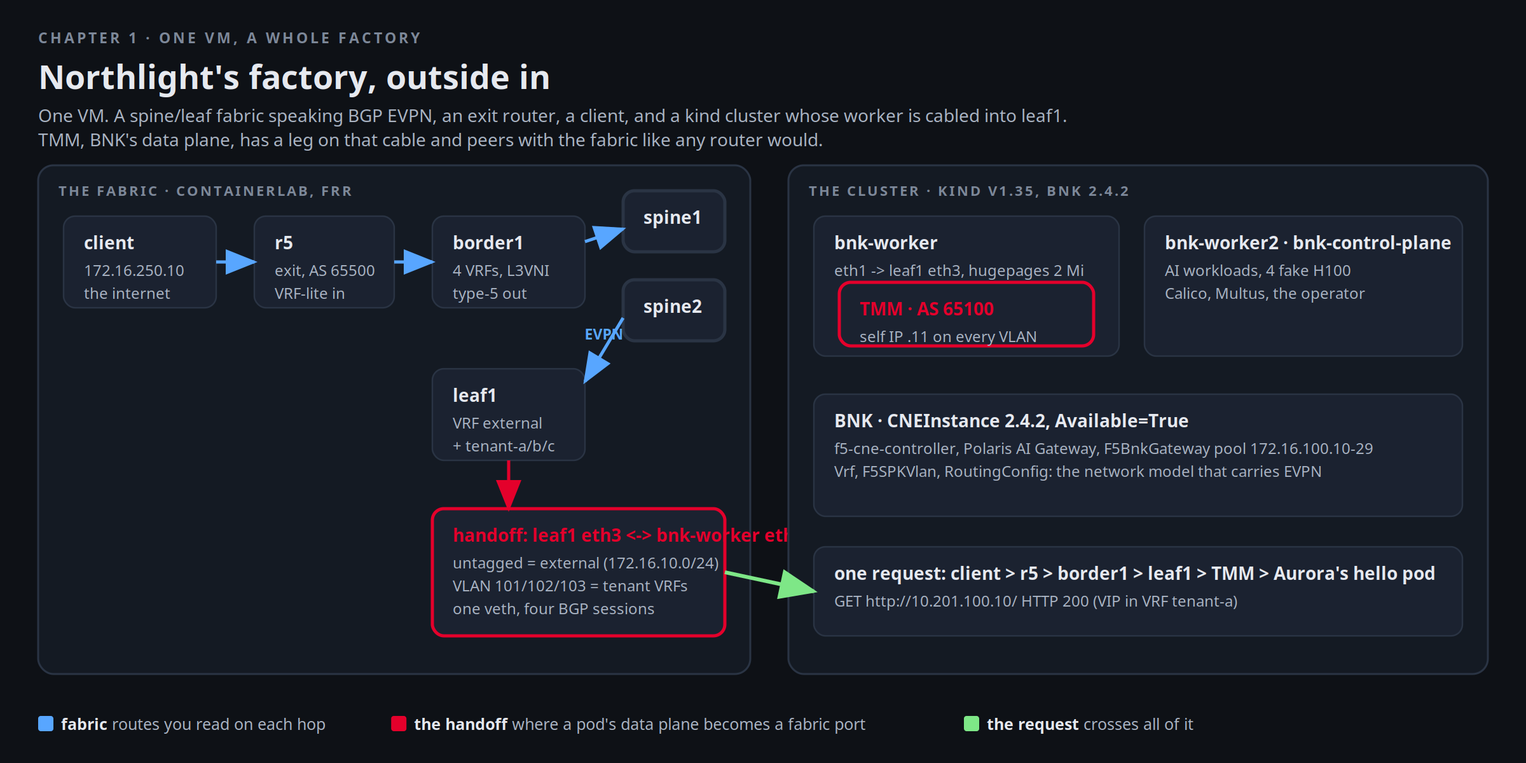
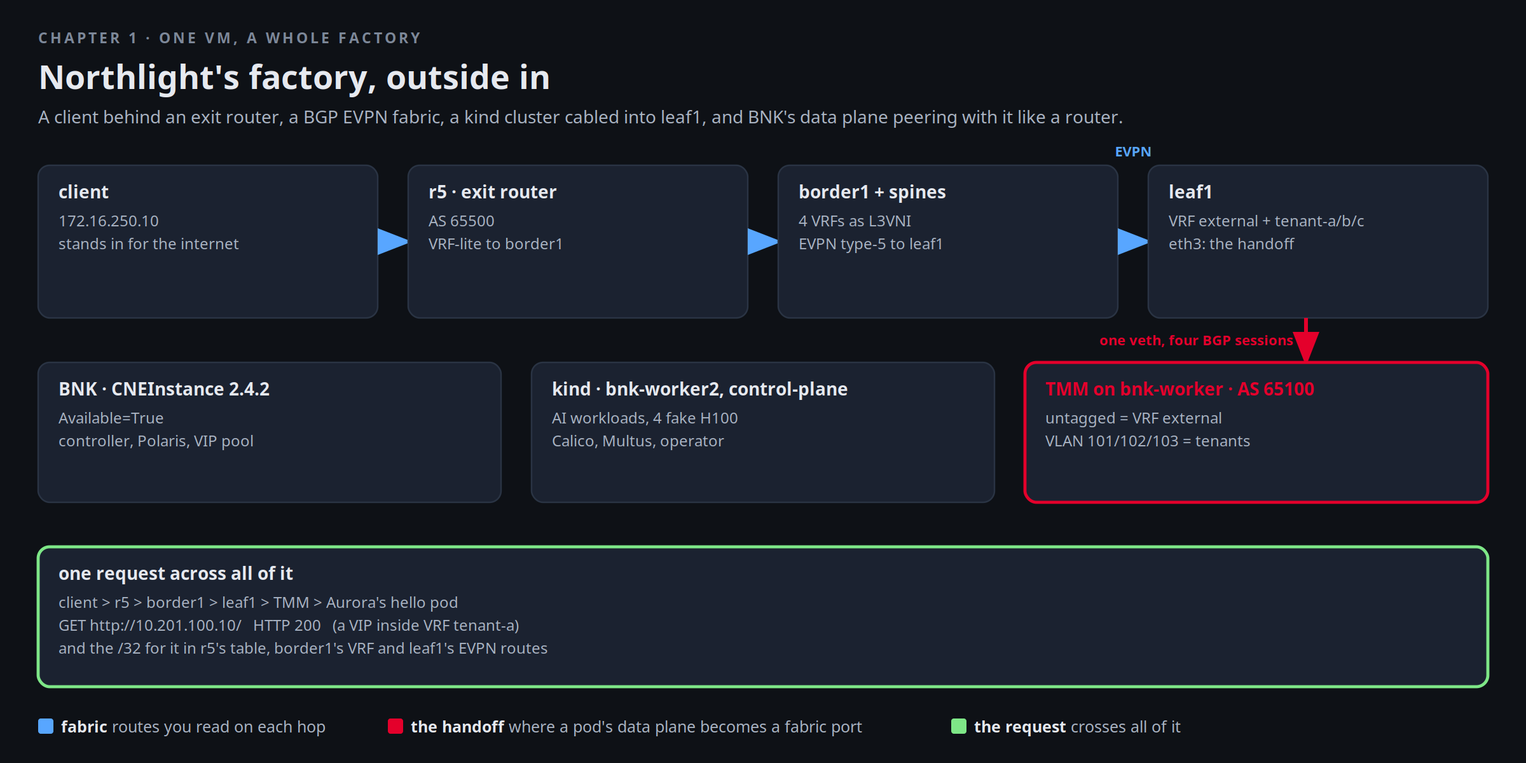
setup-factory: force the lab checkout, authenticate the fetch, assert install/ exists
A play failed with 'install/00-host-prep.sh: No such file or directory' right after the repository step,
which had fetched quietly into a pre-existing /root/lab without checking the working tree. The step now
fetches with the token, checks out FETCH_HEAD with -f, prints the commit and file count, and fails with a
listing if the install directory is still missing. Scene cards for all fourteen chapters are rendered by
assets/scenes.py on a measured grid.

Changed region(s): [[0.0, 0.1233, 1.0, 0.9867], [0.0312, 0.4933, 0.1875, 0.5858], [0.125, 0.2467, 0.2188, 0.2775]]

diff --git a/instruqt/bnk-ai-factory-clab/assets/scenes.py b/instruqt/bnk-ai-factory-clab/assets/scenes.py
@@ -1,7 +1,10 @@
 #!/usr/bin/env python3
-# Scene cards in the style of the bnk-ai-gateway track: dark background, a kicker, a title, one sentence of
-# subtitle, dark panels with the one that matters outlined in F5 red, labelled arrows, a legend. One PNG per
-# chapter (SVG drawn here, rendered with cairosvg), 1200 x 600.
+# Scene cards for the chapters, in the style of the bnk-ai-gateway track: dark background, a kicker, a title,
+# one line of subtitle, rows of dark cards with the one that matters outlined in F5 red, arrows between
+# neighbours, a legend. 1200 x 600, rendered at 2x with cairosvg.
+#
+# Layout is a grid: row(y, h, cards) spreads the cards evenly across the width. Every card is measured against
+# its text and the script refuses to render a card whose title or lines would not fit, so nothing overlaps.
 # Re-run: python3 instruqt/bnk-ai-factory-clab/assets/scenes.py
 import os
 import cairosvg
@@ -9,10 +12,13 @@ import cairosvg
 HERE = os.path.dirname(os.path.abspath(__file__))
 BG, PANEL, CARD, LINE = "#0e1116", "#141a23", "#1b2230", "#2a3444"
 TXT, SUB, DIM = "#e6e9ef", "#aab4c3", "#7d8899"
-RED, BLUE, GREEN, ORANGE, PURPLE = "#e4002b", "#58a6ff", "#7ee787", "#f0a040", "#c792ea"
+RED, BLUE, GREEN, ORANGE, PURPLE, YELLOW, PINK = "#e4002b", "#58a6ff", "#7ee787", "#f0a040", "#c792ea", "#ffd166", "#ff5c7a"
 SANS = "Inter, 'Segoe UI', Helvetica, Arial, sans-serif"
 MONO = "'JetBrains Mono', Consolas, Menlo, monospace"
 W, H = 1200, 600
+M = 30                       # page margin
+PAD = 16                     # card padding
+MONO_W, SANS_W = 7.4, 8.6    # px per char at 12 px mono and 14 px bold sans, measured generously
 
 
 def esc(t): return str(t).replace("&", "&amp;").replace("<", "&lt;").replace(">", "&gt;")
@@ -21,69 +27,319 @@ def esc(t): return str(t).replace("&", "&amp;").replace("<", "&lt;").replace(">"
 class Scene:
     def __init__(self, kicker, title, sub):
         self.o = [f'<rect width="{W}" height="{H}" fill="{BG}"/>']
-        self.t(30, 34, kicker.upper(), 11.5, DIM, 600, mono=True, spacing=2)
-        self.t(30, 70, title, 26, TXT, 700)
-        for i, line in enumerate(sub if isinstance(sub, list) else [sub]):
-            self.t(30, 96 + i * 19, line, 14, SUB)
+        self.t(M, 34, kicker.upper(), 11.5, DIM, 600, mono=True, spacing=2)
+        self.t(M, 70, title, 26, TXT, 700)
+        assert len(sub) * 7.6 <= W - 2 * M, f"subtitle too long: {sub}"
+        self.t(M, 97, sub, 14, SUB)
 
     def t(self, x, y, s, size, color, weight=400, anchor="start", mono=False, spacing=0):
         f = MONO if mono else SANS
         sp = f' letter-spacing="{spacing}"' if spacing else ""
         self.o.append(f'<text x="{x}" y="{y}" font-size="{size}" font-weight="{weight}" fill="{color}" text-anchor="{anchor}" font-family="{f}"{sp}>{esc(s)}</text>')
 
-    def panel(self, x, y, w, h, label):
-        self.o.append(f'<rect x="{x}" y="{y}" width="{w}" height="{h}" rx="12" fill="{PANEL}" stroke="{LINE}" stroke-width="1.5"/>')
-        self.t(x + 16, y + 24, label.upper(), 11, DIM, 600, mono=True, spacing=1.5)
-
-    def card(self, x, y, w, h, title, lines=(), hot=False, color=None, title_color=None):
+    def card(self, x, y, w, h, title, lines=(), hot=False, color=None, dash=False):
+        need_w = max([len(title) * SANS_W] + [len(l) * MONO_W for l in lines]) + 2 * PAD
+        need_h = 36 + 18 * len(lines) + 6
+        assert need_w <= w, f"card '{title}' needs {need_w:.0f}px, has {w}px"
+        assert need_h <= h, f"card '{title}' needs {need_h}px high, has {h}px"
         stroke = color or (RED if hot else LINE)
-        self.o.append(f'<rect x="{x}" y="{y}" width="{w}" height="{h}" rx="9" fill="{CARD}" stroke="{stroke}" stroke-width="{2.5 if (hot or color) else 1.2}"/>')
-        self.t(x + 16, y + 26, title, 14, title_color or (RED if hot else TXT), 700)
+        d = ' stroke-dasharray="6 4"' if dash else ""
+        self.o.append(f'<rect x="{x}" y="{y}" width="{w}" height="{h}" rx="9" fill="{CARD}" stroke="{stroke}" stroke-width="{2.4 if (hot or color) else 1.2}"{d}/>')
+        self.t(x + PAD, y + 26, title, 14, RED if hot else TXT, 700)
         for i, l in enumerate(lines):
-            self.t(x + 16, y + 47 + i * 18, l, 12, SUB, mono=True)
+            self.t(x + PAD, y + 48 + i * 18, l, 12, SUB, mono=True)
+
+    def row(self, y, h, cards, gap=24, x0=M, x1=W - M, arrows=None):
+        """cards: list of (title, lines, opts); spreads them over [x0, x1]. arrows: list per gap of
+        (color, label) or None. Returns the x centres."""
+        n = len(cards)
+        w = (x1 - x0 - gap * (n - 1)) / n
+        centres = []
+        for i, (title, lines, opts) in enumerate(cards):
+            x = x0 + i * (w + gap)
+            self.card(x, y, w, h, title, lines, **opts)
+            centres.append(x + w / 2)
+            if arrows and i < n - 1 and arrows[i]:
+                col, lab = arrows[i]
+                self.arrow(x + w, y + h / 2, x + w + gap, y + h / 2, col, w=3)
+                if lab:   # above the row, centred on the gap, where it cannot touch a card
+                    self.t(x + w + gap / 2, y - 7, lab, 11, col, 600, "middle", mono=True)
+        return centres
 
     def arrow(self, x1, y1, x2, y2, color=BLUE, label="", dash=False, w=2.5):
         d = ' stroke-dasharray="6 5"' if dash else ""
-        mid = f'a{abs(hash((x1, y1, x2, y2))) % 100000}'
-        self.o.append(f'<defs><marker id="{mid}" markerWidth="10" markerHeight="8" refX="9" refY="4" orient="auto" markerUnits="strokeWidth"><path d="M0,0 L10,4 L0,8 z" fill="{color}"/></marker></defs>')
+        mid = f'a{abs(hash((x1, y1, x2, y2, color))) % 1000000}'
+        self.o.append(f'<defs><marker id="{mid}" markerWidth="9" markerHeight="7" refX="8" refY="3.5" orient="auto" markerUnits="strokeWidth"><path d="M0,0 L9,3.5 L0,7 z" fill="{color}"/></marker></defs>')
         self.o.append(f'<line x1="{x1}" y1="{y1}" x2="{x2}" y2="{y2}" stroke="{color}" stroke-width="{w}"{d} marker-end="url(#{mid})"/>')
         if label:
-            self.t((x1 + x2) / 2, (y1 + y2) / 2 - 8, label, 11.5, color, 600, "middle", mono=True)
+            self.t((x1 + x2) / 2, min(y1, y2) - 10, label, 11, color, 600, "middle", mono=True)
 
-    def legend(self, items, y=H - 26):
-        x = 30
+    def down(self, x, y1, y2, color=BLUE, label=""):
+        self.arrow(x, y1, x, y2, color, w=3)
+        if label:   # beside the arrow, on the side with room
+            if x > W / 2: self.t(x - 10, (y1 + y2) / 2 + 4, label, 11, color, 600, "end", mono=True)
+            else: self.t(x + 10, (y1 + y2) / 2 + 4, label, 11, color, 600, mono=True)
+
+    def strip(self, y, h, title, lines=(), **opts):
+        self.card(M, y, W - 2 * M, h, title, lines, **opts)
+
+    def legend(self, items, y=H - 24):
+        x = M
         for color, bold, rest in items:
             self.o.append(f'<rect x="{x}" y="{y - 11}" width="12" height="12" rx="2" fill="{color}"/>')
             self.o.append(f'<text x="{x + 18}" y="{y}" font-size="12.5" fill="{SUB}" font-family="{SANS}"><tspan fill="{TXT}" font-weight="700">{esc(bold)}</tspan> {esc(rest)}</text>')
-            x += 40 + 7.2 * (len(bold) + len(rest))
+            x += 44 + 7.0 * (len(bold) + len(rest))
+        assert x <= W, "legend too long"
 
     def save(self, name):
-        svg = f'<svg xmlns="http://www.w3.org/2000/svg" width="{W}" height="{H}" viewBox="0 0 {W} {H}">' + "".join(self.o) + "</svg>"
+        svg = f'<svg xmlns="http://www.w3.org/2000/svg" xml:space="preserve" width="{W}" height="{H}" viewBox="0 0 {W} {H}">' + "".join(self.o) + "</svg>"
         cairosvg.svg2png(bytestring=svg.encode(), write_to=os.path.join(HERE, name), output_width=W * 2, output_height=H * 2)
 
 
+# Rows: A at y=130 (h 120), B at y=285 (h 110), C strip at y=430 (h 110), legend at 576.
+A, AH, B, BH, C, CH = 130, 120, 285, 110, 430, 110
+
+
 def c01():
-    s = Scene("Chapter 1 · One VM, a whole factory", "Northlight's factory, outside in", ["One VM. A spine/leaf fabric speaking BGP EVPN, an exit router, a client, and a kind cluster whose worker is cabled into leaf1.", "TMM, BNK's data plane, has a leg on that cable and peers with the fabric like any router would."])
-    s.panel(30, 130, 560, 400, "the fabric · containerlab, FRR")
-    s.card(50, 170, 120, 72, "client", ["172.16.250.10", "the internet"])
-    s.card(200, 170, 110, 72, "r5", ["exit, AS 65500", "VRF-lite in"])
-    s.card(340, 170, 120, 72, "border1", ["4 VRFs, L3VNI", "type-5 out"])
-    s.card(490, 150, 80, 48, "spine1", [], color=LINE); s.card(490, 220, 80, 48, "spine2", [], color=LINE)
-    s.card(340, 290, 120, 72, "leaf1", ["VRF external", "+ tenant-a/b/c"])
-    s.card(340, 400, 230, 100, "handoff: leaf1 eth3 <-> bnk-worker eth1", ["untagged = external (172.16.10.0/24)", "VLAN 101/102/103 = tenant VRFs", "one veth, four BGP sessions"], hot=True)
-    s.arrow(170, 206, 200, 206); s.arrow(310, 206, 340, 206); s.arrow(460, 190, 490, 180); s.arrow(490, 250, 460, 300, label="EVPN")
-    s.arrow(400, 362, 400, 400, RED)
-    s.panel(620, 130, 550, 400, "the cluster · kind v1.35, BNK 2.4.2")
-    s.card(640, 170, 240, 110, "bnk-worker", ["eth1 -> leaf1 eth3, hugepages 2 Mi"])
-    s.card(660, 222, 200, 50, "TMM · AS 65100", ["self IP .11 on every VLAN"], hot=True)
-    s.card(900, 170, 250, 110, "bnk-worker2 · bnk-control-plane", ["AI workloads, 4 fake H100", "Calico, Multus, the operator"])
-    s.card(640, 310, 510, 96, "BNK · CNEInstance 2.4.2, Available=True", ["f5-cne-controller, Polaris AI Gateway, F5BnkGateway pool 172.16.100.10-29", "Vrf, F5SPKVlan, RoutingConfig: the network model that carries EVPN"])
-    s.card(640, 430, 510, 70, "one request: client > r5 > border1 > leaf1 > TMM > Aurora's hello pod", ["GET http://10.201.100.10/   HTTP 200   (VIP in VRF tenant-a)"])
-    s.arrow(570, 450, 640, 465, GREEN, w=3)
+    s = Scene("Chapter 1 · One VM, a whole factory", "Northlight's factory, outside in",
+              "A client behind an exit router, a BGP EVPN fabric, a kind cluster cabled into leaf1, and BNK's data plane peering with it like a router.")
+    s.row(A, AH, [("client", ["172.16.250.10", "stands in for the internet"], {}),
+                  ("r5 · exit router", ["AS 65500", "VRF-lite to border1"], {}),
+                  ("border1 + spines", ["4 VRFs as L3VNI", "EVPN type-5 to leaf1"], {}),
+                  ("leaf1", ["VRF external + tenant-a/b/c", "eth3: the handoff"], {})],
+          arrows=[(BLUE, ""), (BLUE, ""), (BLUE, "EVPN")])
+    s.down(1027, A + AH, B, RED, "one veth, four BGP sessions")
+    s.row(B, BH, [("BNK · CNEInstance 2.4.2", ["Available=True", "controller, Polaris, VIP pool"], {}),
+                  ("kind · bnk-worker2, control-plane", ["AI workloads, 4 fake H100", "Calico, Multus, operator"], {}),
+                  ("TMM on bnk-worker · AS 65100", ["untagged = VRF external", "VLAN 101/102/103 = tenants"], {"hot": True})],
+          arrows=[None, None])
+    s.strip(C, CH, "one request across all of it",
+            ["client > r5 > border1 > leaf1 > TMM > Aurora's hello pod", "GET http://10.201.100.10/   HTTP 200   (a VIP inside VRF tenant-a)", "and the /32 for it in r5's table, border1's VRF and leaf1's EVPN routes"], color=GREEN)
     s.legend([(BLUE, "fabric", "routes you read on each hop"), (RED, "the handoff", "where a pod's data plane becomes a fabric port"), (GREEN, "the request", "crosses all of it")])
     s.save("scene-01.png")
 
 
+def c02():
+    s = Scene("Chapter 2 · Three tenants", "Aurora, Borealis and Cobalt, each on its own rails",
+              "One declaration per tenant becomes a VRF on TMM, a VLAN to leaf1, a VIP pool, a SNAT pool and a Polaris tenant with its own key.")
+    s.row(A, AH, [("Aurora Health · tenant-a", ["VRF tenant-a · VLAN 101", "VIPs 10.201.100.0/24", "Polaris key, route .20"], {"color": GREEN}),
+                  ("Borealis Bank · tenant-b", ["VRF tenant-b · VLAN 102", "VIPs 10.202.100.0/24", "Polaris key, route .21"], {"color": BLUE}),
+                  ("Cobalt Labs · tenant-c", ["VRF tenant-c · VLAN 103", "VIPs 10.203.100.0/24", "Polaris key, route .22"], {"color": ORANGE})])
+    for x, col in ((220, GREEN), (600, BLUE), (980, ORANGE)):
+        s.down(x, A + AH, B, col)
+    s.strip(B, 60, "TMM · one data plane, three route domains · a tenant is a route domain, not a pod", [], hot=True)
+    s.row(C, CH, [("leaf1 · VRF tenant-b", ["from-tmm-tenant-b permits", "VIP pool and SNAT pool only"], {}),
+                        ("border1 -> r5 · VRF-lite", ["eth3.102 <-> r5", "r5 sends a default back"], {}),
+                        ("what you add", ["F5VirtualServer tenant-b-reports", "10.202.100.11 · reachable in ~10 s"], {"color": BLUE})],
+          arrows=[(BLUE, ""), (BLUE, "")])
+    s.legend([(GREEN, "tenant-a", "Aurora Health"), (BLUE, "tenant-b", "Borealis Bank, where you publish today"), (ORANGE, "tenant-c", "Cobalt Labs"), (RED, "TMM", "three route domains")])
+    s.save("scene-02.png")
+
+
+def c03():
+    s = Scene("Chapter 3 · GPUs without GPUs", "Eight H100s this VM does not have",
+              "The fake GPU operator advertises nvidia.com/gpu, KAI schedules tenants against it, and the Dynamo mocker publishes vLLM metrics.")
+    s.row(A, AH, [("bnk-worker · bnk-worker2", ["nvidia.com/gpu: 4 + 4", "product H100, no driver, no card"], {}),
+                  ("KAI queue ai-factory", ["tenant-a quota 4, weight 2", "tenant-b 2 · tenant-c 2 · limit -1"], {"hot": True}),
+                  ("Dynamo mocker x2", ["Qwen3-0.6B tokenizer, no weights", "vllm:num_requests_running"], {"color": ORANGE})])
+    s.down(600, A + AH, B, RED)
+    s.row(B, BH, [("1 · fill it", ["Aurora 4, Borealis 2, Cobalt 2", "all eight in use"], {"color": GREEN}),
+                  ("2 · Cobalt asks for 4 more", ["Pending: over quota,", "nothing idle to borrow"], {"color": YELLOW}),
+                  ("3 · Aurora's job ends", ["Cobalt's job takes the idle 4", "borrowed, reclaimable"], {"color": BLUE})],
+          arrows=[(DIM, ""), (DIM, "")])
+    s.strip(C, CH, "what a pod and Grafana see",
+            ["inside a scheduled pod: NVIDIA_VISIBLE_DEVICES set, nvidia-smi absent, the device is in the environment", "Grafana: vllm:num_requests_running and DCGM_FI_DEV_GPU_UTIL, real counters on simulated hardware"])
+    s.legend([(RED, "the scheduler", "fairness between tenants"), (GREEN, "quota", "guaranteed"), (BLUE, "borrowed", "reclaimable"), (ORANGE, "metrics", "without a GPU")])
+    s.save("scene-03.png")
+
+
+def c04():
+    s = Scene("Chapter 4 · The picker", "TMM asks before it forwards",
+              "The pool VIP's HTTPRoute ends in an InferencePool. For every request TMM asks F5's Endpoint Picker which worker should take it.")
+    s.row(A, AH, [("client", ["POST /v1/chat/completions", "172.16.100.12:8000"], {}),
+                  ("TMM · pool VIP", ["HTTPRoute -> InferencePool", "ext-proc call per request"], {"hot": True}),
+                  ("F5EPP · engine dynamo", ["prefix-cache, prefill-load,", "queue, kv-cache scorers"], {"color": PURPLE}),
+                  ("NATS", ["KV cache events", "prefix -> worker map"], {})],
+          arrows=[(GREEN, "1"), (PURPLE, "2 which one?"), (DIM, "")])
+    s.down(432, A + AH, B, GREEN, "3 to the worker the picker named")
+    s.row(B, BH, [("Dynamo mocker-0", ["KV cache: prefixes it has seen", "vllm:num_requests_running"], {"color": ORANGE}),
+                  ("Dynamo mocker-1", ["KV cache: prefixes it has seen", "vllm:num_requests_running"], {"color": ORANGE})], x1=W / 2 + 80)
+    s.card(W / 2 + 120, B, W - M - W / 2 - 120, BH, "F5EPP spec.mode", ["aggregated: one worker end to end", "disaggregated: prefill + decode", "chapter 14 comes back to this"])
+    s.strip(C, CH, "what you watch",
+            ["the picker's log names a worker per request · the same prompt twice lands on the same worker", "twelve long prompts in flight push the next short one to the other worker · Prometheus shows the load per pod"])
+    s.legend([(GREEN, "request", "through the pool VIP"), (PURPLE, "ext-proc", "TMM's question, the picker's answer"), (ORANGE, "workers", "real KV-cache bookkeeping"), (RED, "TMM", "forwards where it is told")])
+    s.save("scene-04.png")
+
+
+def c05():
+    s = Scene("Chapter 5 · Sessions that stick", "Persistence that reads the protocol",
+              "Aurora's MCP server gets its own Gateway on 172.16.100.23. Three replicas, one session: without help the calls scatter.")
+    s.row(A, AH, [("client", ["initialize -> Mcp-Session-Id", "tools/call x6, same id"], {}),
+                  ("Gateway tenant-mcp · .23", ["HTTPRoute /mcp -> agent:8001", "NetPolicy tenant-mcp-sessions"], {"hot": True}),
+                  ("F5BigPersistenceProfile", ["type MODEL_CONTEXT_PROTOCOL", "Secret mcp-passphrase"], {"color": GREEN}),
+                  ("agent x3", ["before: 6 calls, 2-3 pods", "after: 6 calls, 1 pod"], {"color": GREEN})],
+          arrows=[(GREEN, "session"), (GREEN, "attached"), (GREEN, "sticks")])
+    s.row(B, BH, [("the same for A2A · .14", ["type AGENT2AGENT", "message/send, then tasks/get", "NetPolicy on kagent/agents-gw"], {"color": PURPLE}),
+                  ("the attachment shape", ["NetPolicy: targetRef Gateway + listener", "extensionRefs: BNK extensions", "one per listener, same namespace"], {})])
+    s.strip(C, CH, "what you measure",
+            ["scale deploy/agent to 3 · one initialize, six tools/call with the same id, the pod name from each answer", "uniq -c before the Secret exists and after: TMM read the session id from the protocol, not from a cookie"])
+    s.legend([(GREEN, "MCP", "session id in the protocol"), (PURPLE, "A2A", "the second persistence type"), (RED, "the listener", "where the profile lives")])
+    s.save("scene-05.png")
+
+
+def c06():
+    s = Scene("Chapter 6 · The programmable data path", "Where the CRDs stop, Tcl continues",
+              "An F5BigCneIrule runs inside TMM on the listener's events: it answers /factory/whoami itself and stamps every other request.")
+    s.row(A, AH, [("client", ["GET /factory/whoami", "POST /mcp"], {}),
+                  ("TMM · listener on .23", ["NetPolicy, two extensions:", "persistence profile + iRule"], {"hot": True}),
+                  ("answered in TMM", ["200, JSON from Tcl", "X-Factory-Tenant: tenant-a"], {"color": GREEN}),
+                  ("forwarded to the pod", ["/mcp still gets a session id", "request carries the stamp"], {"color": BLUE})],
+          arrows=[(GREEN, ""), (GREEN, "whoami"), (BLUE, "mcp")])
+    s.row(B, BH, [("change it live", ["sed + kubectl apply", "picked up in ~8 s", "no restart, no gap"], {"color": ORANGE}),
+                  ("the Access CRDs", ["f5-big-access-jwt-configs", "issuer, keys, claims", "no IdP in this VM: read only"], {"color": PURPLE})])
+    s.strip(C, CH, "one listener · one NetPolicy · two extensions",
+            ["the NetPolicy from chapter 5 gains an extensionRef; a listener takes one NetPolicy, a NetPolicy takes several extensions", "identity checks have a home at the traffic layer; the IdP is the only thing missing here"])
+    s.legend([(GREEN, "in TMM", "no pod involved"), (BLUE, "forwarded", "with the stamp"), (ORANGE, "live change", "apply and it is there"), (PURPLE, "identity CRDs", "waiting for an IdP")])
+    s.save("scene-06.png")
+
+
+def c07():
+    s = Scene("Chapter 7 · Agent Substrate", "Agents are not pods",
+              "A scheduler of their own: WorkerPools, golden snapshots, actors forked from them, identities from PodCertificateRequest.")
+    s.row(A, AH, [("ate-system", ["api-server, controller", "atelet on every node"], {}),
+                  ("atenet-router", ["the actor's only network", "-> the tenant's AI route"], {"color": PURPLE}),
+                  ("WorkerPool kagent-default", ["replicas 2", "ateom-gvisor v0.0.9"], {}),
+                  ("identities", ["PodCertificateRequest", "certificates.k8s.io/v1beta1"], {})])
+    s.row(B, BH, [("SandboxAgent concierge", ["Northlight's front desk", "no tools, lab tenant's model", "workerPoolRef kagent-default"], {"hot": True}),
+                  ("ActorTemplate", ["generated by kagent", "Substrate builds the snapshot"], {"color": ORANGE}),
+                  ("actor on a worker", ["forked from the snapshot", "Ready in the agent's status", "listed in the kagent tab"], {"color": GREEN})],
+          arrows=[(ORANGE, "kagent"), (GREEN, "fork")])
+    s.strip(C, CH, "what changes",
+            ["a pod is pulled, started and torn down by the kubelet; an actor is forked from a snapshot that already has the runtime loaded", "kagent owns the agent, Substrate owns the worker and the snapshot; the actor has no cluster network, only the router"])
+    s.legend([(RED, "SandboxAgent", "the one YAML you apply"), (ORANGE, "generated", "template and snapshot"), (GREEN, "actor", "running, no Deployment"), (PURPLE, "router", "the only way out")])
+    s.save("scene-07.png")
+
+
+def c08():
+    s = Scene("Chapter 8 · OpenShell", "A key the agent never had",
+              "The sanctioned assistants run in NVIDIA OpenShell sandboxes. A provider injects the key on the way out, towards one address only.")
+    s.row(A, AH, [("sandbox tenant-a-agent", ["no key in its environment", "policy per binary, per host"], {"hot": True}),
+                  ("provider f5-aigw-tenant-a", ["endpoint 172.16.100.20:80", "credential: Aurora's key"], {}),
+                  ("Aurora route .20", ["HTTP 200", "key present on arrival"], {"color": GREEN}),
+                  ("Borealis route .21", ["DENIED in the kernel", "logged with the binary"], {"color": PINK})],
+          arrows=[(DIM, ""), (GREEN, "allowed"), (PINK, "refused")])
+    s.row(B, BH, [("policy update --wait", ["add 172.16.100.21:80 for curl", "hot-reloaded while it runs", "now: packet out, Polaris 401"], {"color": ORANGE}),
+                  ("policy set --wait", ["put the base policy back", "the refusal returns", "chapter 12 relies on this"], {"color": ORANGE})],
+          arrows=[(ORANGE, "")])
+    s.strip(C, CH, "the key lives in the provider, not in the sandbox",
+            ["a copied key cannot leave because it was never there · two layers give two different refusals: the sandbox's DENIED and Polaris's 401", "openshell logs --source sandbox: every refused connection, with the binary and the destination"])
+    s.legend([(GREEN, "allowed", "one endpoint, key injected"), (PINK, "DENIED", "in the kernel, logged"), (ORANGE, "policy", "changed while it runs"), (RED, "sandbox", "where the assistant lives")])
+    s.save("scene-08.png")
+
+
+def c09():
+    s = Scene("Chapter 9 · Meet the agents", "Four agents, three tenants, one operator",
+              "Each tenant's assistant has its own ModelConfig: its own route, its own key, its own model name. The operator sees the platform.")
+    s.row(A, AH, [("tenant-a/assistant", ["tenant-a-qwen2.5-1.5b", "172.16.100.20 · aigw-key", "tools: Aurora's MCP"], {"color": GREEN}),
+                  ("tenant-b/assistant", ["tenant-b-qwen2.5-1.5b", "172.16.100.21 · aigw-key", "tools: Borealis's MCP"], {"color": BLUE}),
+                  ("tenant-c/assistant", ["tenant-c-qwen2.5-1.5b", "172.16.100.22 · aigw-key", "tools: Cobalt's MCP"], {"color": ORANGE}),
+                  ("kagent/factory-operator", ["kubernetes tools, read-only", "sees pods, not tenant data"], {"color": PURPLE})])
+    s.row(B, BH, [("A2A gateway · 172.16.100.14", ["/api/a2a/tenant-a/assistant/", "AGENT2AGENT persistence"], {"hot": True}),
+                  ("Aurora's app · 172.16.100.16", ["POST /api/ask {question}", "the app calls its assistant"], {}),
+                  ("Polaris · the record", ["tenant-a · tenant-a-app-key", "tokens per call; refusals too"], {"color": GREEN})])
+    s.strip(C, CH, "what you prove",
+            ["an A2A call to Aurora's assistant lists the open clinical records through Aurora's MCP tools · the same through the published app", "Aurora's key on Aurora's route: 200 · Aurora's key on Borealis's route: refused by Polaris, and the model name does not exist there"])
+    s.legend([(GREEN, "tenant-a", "Aurora"), (BLUE, "tenant-b", "Borealis"), (ORANGE, "tenant-c", "Cobalt"), (PURPLE, "operator", "platform, read-only"), (RED, "A2A", "the published front")])
+    s.save("scene-09.png")
+
+
+def c10():
+    s = Scene("Chapter 10 · The agent nobody approved", "Sanctioned parts, no review",
+              "A Cobalt developer deploys billing-reconciler as a plain pod: the sanctioned tools, Aurora's record lookup, and a POST to any URL.")
+    s.row(A, AH, [("billing-reconciler", ["plain pod in tenant-c", "billing_export, lookup_record", "post_report to any URL"], {"color": YELLOW, "dash": True}),
+                  ("TMM · route 172.16.100.22", ["Polaris checks key and model", "reads nothing else"], {"hot": True}),
+                  ("Cobalt's egress", ["VRF tenant-c, VLAN 103", "SNAT 10.203.200.x"], {}),
+                  ("webhook · client :8080", ["outside the factory", "MRNs, names, amounts"], {"color": PINK})],
+          arrows=[(GREEN, "own key: 200"), (PINK, "post_report"), (PINK, "")])
+    s.row(B, BH, [("attempt 1 · Aurora's key, copied", ["Polaris: 401, wrong tenant", "recorded under tenant-c"], {"color": PINK}),
+                  ("attempt 2 · Cobalt's own key", ["every Cobalt developer has it", "the model follows the procedure"], {"color": GREEN}),
+                  ("how it is reached", ["agents gateway publishes only", "the sanctioned three; kagent :8083"], {})])
+    s.strip(C, CH, "where each layer stood",
+            ["identity: necessary, not sufficient · content: nothing read the prompt or the answer · reachability: the pod leaves like any pod of Cobalt's", "leave it running: chapter 11 stops it in TMM, chapter 12 at the exit, chapter 13 writes it up"])
+    s.legend([(YELLOW, "shadow agent", "sanctioned parts"), (PINK, "refused, then leaked", "wrong key, then out the door"), (GREEN, "passed", "with a legitimate key"), (RED, "TMM", "sees the route, not the content")])
+    s.save("scene-10.png")
+
+
+def c11():
+    s = Scene("Chapter 11 · Guardrails in the data path", "A verdict before the model",
+              "One NetPolicy puts the guardrails iRule on Cobalt's AI route. TMM asks the scanner over a sideband and answers flagged requests itself.")
+    s.row(A, AH, [("caller · Cobalt's key", ["a clean question, or", "last night's export"], {"color": YELLOW}),
+                  ("TMM · Gateway tenant-c-ai", ["NetPolicy guardrails-tenant-c", "iRule collects the body"], {"hot": True}),
+                  ("CalypsoAI scanner", ["/backend/v1/scans", "passed | flagged"], {"color": PURPLE}),
+                  ("model", ["sees passed requests only", "flagged never arrives"], {"color": GREEN})],
+          arrows=[(GREEN, ""), (PURPLE, "sideband"), (GREEN, "passed")])
+    s.row(B, BH, [("flagged", ["HTTP 200 answered by TMM", "X-Guardrail: blocked", "reads like a model reply"], {"color": PINK}),
+                  ("the agent, rerun", ["same agent, key and task", "the export it read is flagged", "webhook count unchanged"], {"color": YELLOW}),
+                  ("attach and detach", ["kubectl apply -f 50-attach-tenant-c", "same NetPolicy shape as ch 5 and 6", "kubectl delete -f takes it off"], {})])
+    s.strip(C, CH, "content inspection where the content flows",
+            ["in TMM, on the tenant's route, before the model · the verdict comes from the scanner, the enforcement and the record from the data plane", "chapter 12 is the case the scanner cannot see: a clean prompt"])
+    s.legend([(GREEN, "passed", "to the model"), (PINK, "flagged", "answered in TMM"), (PURPLE, "scanner", "sideband from the iRule"), (YELLOW, "the shadow agent", "stopped without touching it")])
+    s.save("scene-11.png")
+
+
+def c12():
+    s = Scene("Chapter 12 · Nowhere to send it", "A clean prompt and the same webhook",
+              "Reachability is the last layer: the sandbox refuses the webhook by policy, and without its F5SPKEgress the plain pod has no first hop.")
+    s.row(A, AH, [("sandbox tenant-c-agent", ["POST 172.16.250.10:8080", "no rule for it: DENIED"], {"color": PINK}),
+                  ("the plain pod", ["billing-reconciler, no sandbox", "first 200, then no route"], {"color": YELLOW, "dash": True}),
+                  ("F5SPKEgress tenant-c-egress", ["tunnel, route domain, SNAT", "delete it: no exit at all"], {"hot": True}),
+                  ("border1 eth3.103 -> webhook", ["tcpdump on VLAN 103", "one POST, then silence"], {"color": BLUE})],
+          arrows=[None, (YELLOW, "before"), (BLUE, "")])
+    s.row(B, BH, [("still reachable", ["Cobalt's AI route 172.16.100.22", "internal leg, not egress", "sanctioned work unaffected"], {"color": GREEN}),
+                  ("put it back the right way", ["kubectl apply -f 30-egress.yaml", "then delete the agent and its key", "a review question, not routing"], {})])
+    s.strip(C, CH, "three layers, three catches",
+            ["OpenShell: no connection the policy does not list, clean prompt or not · BNK: a tenant's exit exists because a declaration says so", "content inspection, identity and reachability each caught something the other two could not"])
+    s.legend([(PINK, "DENIED", "in the sandbox"), (YELLOW, "plain pod", "no exit once the declaration is gone"), (BLUE, "VLAN 103", "where border1 would see it"), (GREEN, "AI route", "unaffected")])
+    s.save("scene-12.png")
+
+
+def c13():
+    s = Scene("Chapter 13 · On the record", "Four sources, one timeline",
+              "Nothing in the factory shares a log. Each layer keeps the record of the thing it enforces, and Mira writes the week up from all four.")
+    s.row(A, AH, [("Polaris · the calls", ["refused with Aurora's key", "passed with Cobalt's key", "management API :18443"], {"color": GREEN}),
+                  ("TMM · the verdicts", ["NetPolicy guardrails-tenant-c", "X-Guardrail: blocked", "the egress that was removed"], {"color": RED}),
+                  ("OpenShell · the refusals", ["DENIED curl -> .21 (ch 8)", "DENIED curl -> webhook (ch 12)", "per sandbox, with the binary"], {"color": PINK}),
+                  ("Prometheus · the load", ["vllm:num_requests_running", "kai_queue_allocated_gpus", "Grafana for the picture"], {"color": ORANGE})])
+    for x in (166, 455, 744, 1033):
+        s.down(x, A + AH, B, DIM)
+    s.strip(B, 150, "/root/incident-timeline.md · five lines, each with its source",
+            ["1 deployed: billing-reconciler in tenant-c, outside any sandbox (kubectl, chapter 10)",
+             "2 refused: Aurora's key on Cobalt's route (Polaris, 401)",
+             "3 passed: Cobalt's own key; the export reached the webhook (Polaris, webhook log)",
+             "4 stopped in TMM: verdict flagged, X-Guardrail: blocked (NetPolicy guardrails-tenant-c)",
+             "5 clean POST: the sandbox refused it; the plain pod lost its exit (OpenShell log, border1)"], hot=True)
+    s.strip(B + 170, 60, "'who tried it' is answerable in minutes because every control kept its own record", [])
+    s.legend([(GREEN, "Polaris", "identity and tokens"), (RED, "TMM", "verdicts and declarations"), (PINK, "OpenShell", "refusals"), (ORANGE, "Prometheus", "load around it")])
+    s.save("scene-13.png")
+
+
+def c14():
+    s = Scene("Chapter 14 · Topology as a contract (optional)", "What the picker can see, and what it cannot",
+              "llm-d argues the router must know where workers sit, rack and rail. BNK's picker scores cache and load. Put the labels on and look.")
+    s.row(A, AH, [("F5EPP · what it reads", ["KV events on NATS", "queue, prefill, kv-cache scorers"], {"hot": True}),
+                  ("the workers, labelled", ["topology.kubernetes.io/rack", "factory.lab/rail · unread"], {"color": YELLOW, "dash": True}),
+                  ("crosses into the router", ["cache state: yes · load: yes", "rack: no · rail: no"], {"color": PURPLE})],
+          arrows=[(DIM, ""), (DIM, "")])
+    s.row(B, BH, [("what you watch", ["the same prompt twice: the second", "lands where the cache is"], {}),
+                  ("spec.mode", ["aggregated: one worker end to end", "disaggregated: prefill + decode"], {}),
+                  ("where a scorer would go", ["next to the ones above", "fed by those labels, for P/D pairing"], {})])
+    s.strip(C, CH, "the question for next quarter",
+            ["the labels are the easy half; the plugin that reads them is the work", "no verdict on either project: a list of what reaches the picker in this factory and what does not"])
+    s.legend([(RED, "picker", "cache and load aware"), (YELLOW, "labels", "placed, unread"), (PURPLE, "the boundary", "what the router is told")])
+    s.save("scene-14.png")
+
+
 if __name__ == "__main__":
-    c01()
-    print("wrote scene-01.png")
+    for f in (c01, c02, c03, c04, c05, c06, c07, c08, c09, c10, c11, c12, c13, c14):
+        f()
+    print("wrote scene-01.png .. scene-14.png")
